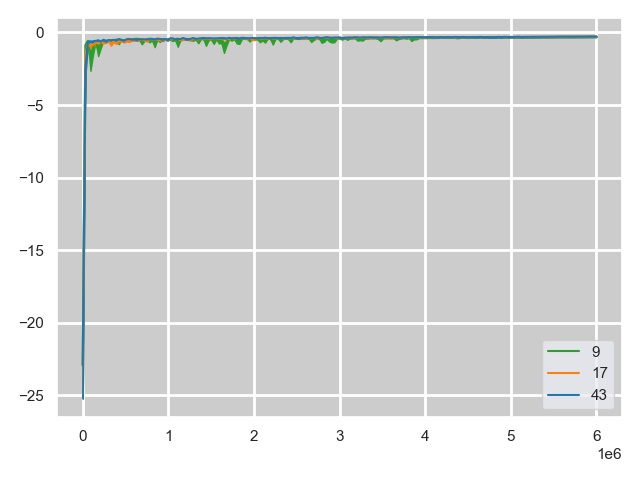
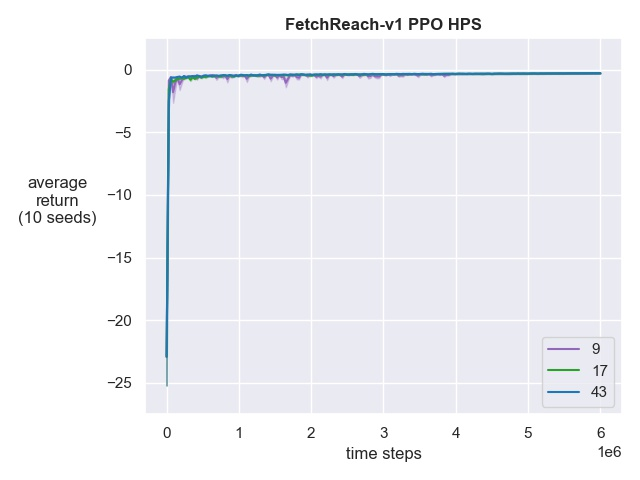
updated hps.py

diff --git a/plot/hps/hps.py b/plot/hps/hps.py
@@ -75,20 +75,16 @@ def get_ppo_data(directory):
         if os.path.exists(csv_filename):
 
             df = pd.read_csv(csv_filename)
-            df = df[["num_time_steps", "average_return"]]
+            df = df[["num_time_steps", "average_return"]].set_index("num_time_steps").rename(columns={"average_return": str(pss)})
             dfs.append(df)
-
-        else:
-
-            print("missing:", seed_foldername)
 
     if len(dfs) > 0:
 
         df = pd.concat(dfs)
         df = df.groupby(df.index)
 
-        df_mean = df.mean().rename(columns={"average_return": str(pss)})
-        df_sem = df.sem().rename(columns={"average_return": str(pss)})
+        df_mean = df.mean()
+        df_sem = df.sem()
 
         return df_mean, df_sem
 
@@ -167,10 +163,6 @@ def get_ppo_summary_data(directory):
             df = df["average_return"]
             dfs.append(df)
 
-        else:
-
-            print("missing:", seed_foldername)
-
     if len(dfs) > 0:
 
         df = pd.concat(dfs)
@@ -240,7 +232,7 @@ def get_sac_data(directory):
         if os.path.exists(csv_filename):
 
             df = pd.read_csv(csv_filename)
-            df = df[["num_time_steps", "average_return"]]
+            df = df[["num_time_steps", "average_return"]].set_index("num_time_steps").rename(columns={"average_return": str(pss)})
             dfs.append(df)
 
     if len(dfs) > 0:
@@ -311,10 +303,6 @@ def get_sac_summary_data(directory):
             df = pd.read_csv(csv_filename)
             df = df["average_return"]
             dfs.append(df)
-
-        else:
-            
-            print("missing:", seed_foldername)
 
     if len(dfs) > 0:
         
@@ -422,88 +410,48 @@ def plot_ant_sac(seeds, df_means, df_sems):
     # plt.close()
 
 
-def plot_fetchreach_ppo(seeds, df_means, df_sems):
+def plot_fetchreach(algorithm, seeds, df_means, df_sems):
+    """
+    Plot best hyperparameter settings for the FetchReach-v1 environment.
+
+    @param algorithm: string
+        algorithm name
+    @param seeds: list of int
+        list of five best performing seeds, ordered from best performing to least-best performing
+    @param df_means: list of df
+        list of the average returns for each parameter setting
+    @param df_sems: list of df
+        list of standard errors for each parameter setting
+    """
 
     plot_directory = os.getcwd() + "/plots/FetchReach-v1"
     os.makedirs(plot_directory, exist_ok=True)
 
-    x = df_means[0]["num_time_steps"]
+    colors = ["tab:blue", "tab:green", "tab:purple", "tab:orange", "tab:red"]
 
-    y0 = df_means[0]["average_return"]
-    y1 = df_means[1]["average_return"]
-    y2 = df_means[2]["average_return"]
-    y3 = df_means[3]["average_return"]
-    y4 = df_means[4]["average_return"]
+    df_means = pd.concat(df_means, axis=1)
+    df_sems = pd.concat(df_sems, axis=1)
 
-    s0 = df_sems[0]["average_return"]
-    s1 = df_sems[1]["average_return"]
-    s2 = df_sems[2]["average_return"]
-    s3 = df_sems[3]["average_return"]
-    s4 = df_sems[4]["average_return"]
+    x = df_means.index
 
-    sns.lineplot(data=df, palette="tab10")
-    plt.show()
+    indices = np.arange(NUM_BEST)
 
-    # plt.plot(x, y4, color="tab:purple", label=str(seeds[4]))
-    # plt.fill_between(x, y4 - s4, y4 + s4, color="tab:purple")
-    #
-    # plt.plot(x, y3, color="tab:red", label=str(seeds[3]))
-    # plt.fill_between(x, y3 - s3, y3 + s3, color="tab:red")
+    for i in np.flip(indices):
+        column = str(seeds[i])
+        y = df_means[str(seeds[i])]
+        lb = y - df_sems[str(seeds[i])]
+        ub = y + df_sems[str(seeds[i])]
+        color = colors[i]
+        plt.plot(x, y, color=color, label=column)
+        plt.fill_between(x, lb, ub, color=color, alpha=0.3)
 
-    plt.plot(x, y2, color="tab:green", label=str(seeds[2]))
-    plt.fill_between(x, y2 - s2, y2 + s2, color="tab:green")
-
-    plt.plot(x, y1, color="tab:orange", label=str(seeds[1]))
-    plt.fill_between(x, y1 - s1, y1 + s1, color="tab:orange")
-
-    plt.plot(x, y0, color="tab:blue", label=str(seeds[0]))
-    plt.fill_between(x, y0 - s0, y0 + s0, color="tab:blue")
-
-    plt.legend()
-
-    plt.savefig(plot_directory + "/FetchReach-v1_PPO_hps.jpg")
-    plt.close()
-
-
-def plot_fetchreach_sac(seeds, df_means, df_sems):
-
-    plot_directory = os.getcwd() + "/plots/FetchReach-v1"
-    os.makedirs(plot_directory, exist_ok=True)
-
-    pss.plot_settings()
-
-    x = df_means[0]["num_time_steps"]
-
-    y0 = df_means[0]["average_return"]
-    y1 = df_means[1]["average_return"]
-    y2 = df_means[2]["average_return"]
-    y3 = df_means[3]["average_return"]
-    y4 = df_means[4]["average_return"]
-
-    s0 = df_sems[0]["average_return"]
-    s1 = df_sems[1]["average_return"]
-    s2 = df_sems[2]["average_return"]
-    s3 = df_sems[3]["average_return"]
-    s4 = df_sems[4]["average_return"]
-
-    # plt.plot(x, y4, color="tab:purple", label=str(seeds[4]))
-    # plt.fill_between(x, y4 - s4, y4 + s4, color="tab:purple")
-
-    # plt.plot(x, y3, color="tab:red", label=str(seeds[3]))
-    # plt.fill_between(x, y3 - s3, y3 + s3, color="tab:red")
-
-    plt.plot(x, y2, color="tab:green", label=str(seeds[2]))
-    plt.fill_between(x, y2 - s2, y2 + s2, color="tab:green")
-
-    plt.plot(x, y1, color="tab:orange", label=str(seeds[1]))
-    plt.fill_between(x, y1 - s1, y1 + s1, color="tab:orange")
-
-    plt.plot(x, y0, color="tab:blue", label=str(seeds[0]))
-    plt.fill_between(x, y0 - s0, y0 + s0, color="tab:blue")
-
-    plt.legend()
-
-    plt.savefig(plot_directory + "/FetchReach-v1_SAC_hps.jpg")
+    plt.xlabel("time steps")
+    plt.ylim(YMIN, YMAX)
+    plt.ylabel("average\nreturn\n(10 seeds)", labelpad=35).set_rotation(0)
+    plt.title("FetchReach-v1 {} HPS".format(algorithm.upper()), fontweight="bold")
+    plt.legend(loc="lower right")
+    plt.tight_layout()
+    plt.savefig(plot_directory + "/FetchReach-v1_{}_hps.jpg".format(algorithm.upper()))
     plt.close()
 
 
@@ -612,19 +560,18 @@ def fetchreach():
     hps_data_dir = os.getcwd() + "/data/fetchreach"
     os.makedirs(hps_data_dir, exist_ok=True)
 
-    fetchreach_data_dir = DATA_DIR + "/fetchreach/hps"
-    fetchreach_data_dirs = os.listdir(fetchreach_data_dir)
-
     """
     PPO
     """
 
+    fetchreach_ppo_data_dir = DATA_DIR + "/fetchreach/hpsc/ppo"
+    fetchreach_ppo_data_dirs = os.listdir(fetchreach_ppo_data_dir)
+
     fetchreach_ppo_results = []
 
-    for dir_ in fetchreach_data_dirs:
-        if "PPO" in dir_:
-            fetchreach_ppo_result = get_ppo_summary_data(fetchreach_data_dir + "/" + dir_)
-            fetchreach_ppo_results.append(fetchreach_ppo_result)
+    for dir_ in fetchreach_ppo_data_dirs:
+        fetchreach_ppo_result = get_ppo_summary_data(fetchreach_ppo_data_dir + "/" + dir_)
+        fetchreach_ppo_results.append(fetchreach_ppo_result)
 
     df = pd.DataFrame(data=fetchreach_ppo_results,
                       columns=["ps seed",
@@ -644,24 +591,26 @@ def fetchreach():
     top_hps_seeds = df.values.tolist()
 
     for seed in top_hps_seeds:
-        for dir_ in fetchreach_data_dirs:
-            if "PPO" in dir_ and "pss:" + str(seed) == dir_[-(4 + len(str(seed))):]:
-                df_mean, df_sem = get_ppo_data(fetchreach_data_dir + "/" + dir_)
+        for dir_ in fetchreach_ppo_data_dirs:
+            if "pss:" + str(seed) == dir_[-(4 + len(str(seed))):]:
+                df_mean, df_sem = get_ppo_data(fetchreach_ppo_data_dir + "/" + dir_)
                 top_fetchreach_ppo_results_mean.append(df_mean)
                 top_fetchreach_ppo_results_sem.append(df_sem)
 
-    plot_fetchreach_ppo(top_hps_seeds, top_fetchreach_ppo_results_mean, top_fetchreach_ppo_results_sem)
+    plot_fetchreach("ppo", top_hps_seeds, top_fetchreach_ppo_results_mean, top_fetchreach_ppo_results_sem)
 
     """
     SAC
     """
 
+    fetchreach_sac_data_dir = DATA_DIR + "/fetchreach/hpsc/sac"
+    fetchreach_sac_data_dirs = os.listdir(fetchreach_sac_data_dir)
+
     fetchreach_sac_results = []
 
-    for dir_ in fetchreach_data_dirs:
-        if "SAC" in dir_:
-            fetchreach_sac_result = get_sac_summary_data(fetchreach_data_dir + "/" + dir_)
-            fetchreach_sac_results.append(fetchreach_sac_result)
+    for dir_ in fetchreach_sac_data_dirs:
+        fetchreach_sac_result = get_sac_summary_data(fetchreach_sac_data_dir + "/" + dir_)
+        fetchreach_sac_results.append(fetchreach_sac_result)
 
     df = pd.DataFrame(data=fetchreach_sac_results,
                       columns=["ps seed",
@@ -681,21 +630,25 @@ def fetchreach():
     top_hps_seeds = df.values.tolist()
 
     for seed in top_hps_seeds:
-        for dir_ in fetchreach_data_dirs:
-            if "SAC" in dir_ and "pss:" + str(seed) == dir_[-(4 + len(str(seed))):]:
-                df_mean, df_sem = get_sac_data(fetchreach_data_dir + "/" + dir_)
+        for dir_ in fetchreach_sac_data_dirs:
+            if "pss:" + str(seed) == dir_[-(4 + len(str(seed))):]:
+                df_mean, df_sem = get_sac_data(fetchreach_sac_data_dir + "/" + dir_)
                 top_fetchreach_sac_results_mean.append(df_mean)
                 top_fetchreach_sac_results_sem.append(df_sem)
 
-    plot_fetchreach_sac(top_hps_seeds, top_fetchreach_sac_results_mean, top_fetchreach_sac_results_sem)
+    plot_fetchreach("sac", top_hps_seeds, top_fetchreach_sac_results_mean, top_fetchreach_sac_results_sem)
 
 
 if __name__ == "__main__":
 
-    # DATA_DIR = "/Users/sheilaschoepp/Documents/DATA"
     DATA_DIR = "/mnt/DATA/shared"
 
-    RUNS = 10
+    RUNS = 10  # number of runs (seeds) to average across
 
-    # ant()
-    fetchreach()
+    NUM_BEST = 3  # plot the "NUM_BEST" best seeds
+
+    YMIN = -27.5  # min for y axis
+    YMAX = 2.5  # max for y axis
+
+    ant()
+    # fetchreach()
